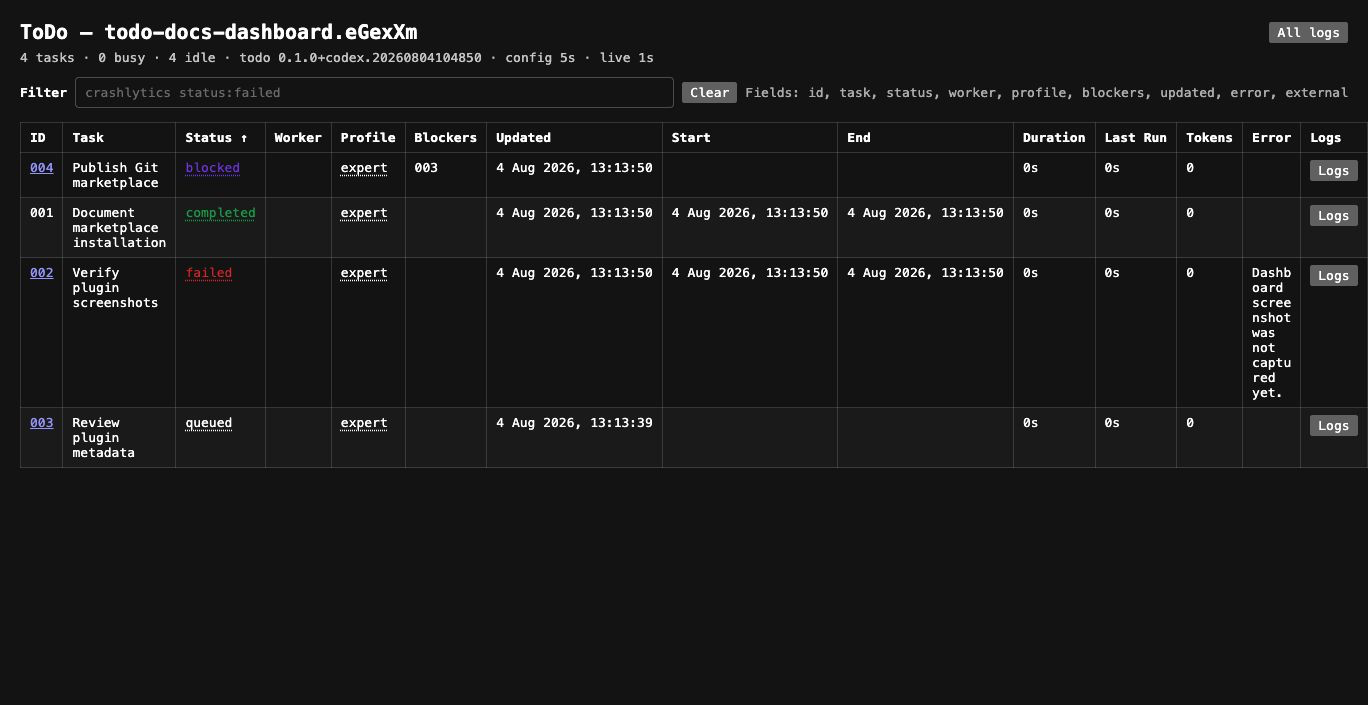
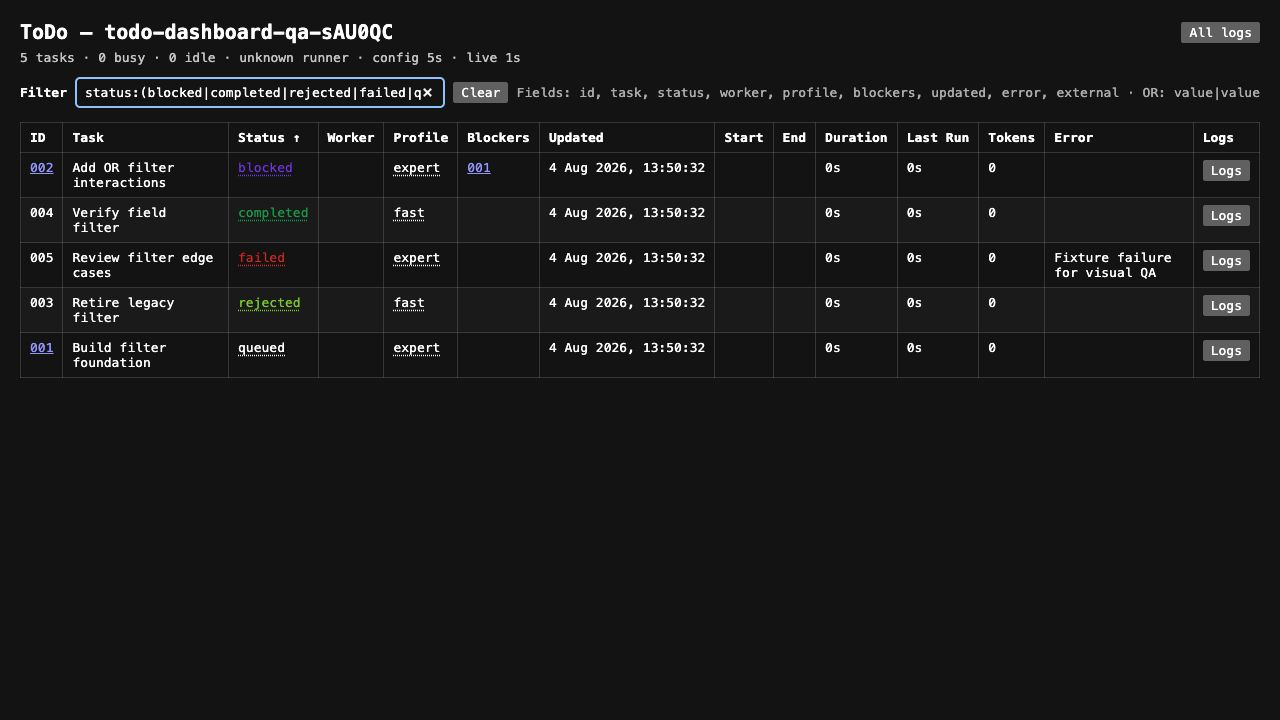
Improve ToDo dashboard filters and dependencies

diff --git a/plugins/todo/README.md b/plugins/todo/README.md
@@ -107,6 +107,12 @@ Its URL and port are ephemeral; query `$todo:dashboard` or `$todo:status` instea
 of bookmarking one. Prompts, readable transcripts, raw JSONL logs, results, and
 metrics remain in `.todo/` for audit and debugging.
 
+Dependency IDs link to their task Markdown when the referenced task is available.
+Canceled lifecycle records are labeled `rejected` in the dashboard. Field filters
+accept OR values as either `status:completed|rejected` or
+`status:(completed|rejected)`; clicking multiple status or profile values builds
+the same `|` expression.
+
 The dashboard is local operational tooling, not an account-quota display. Token
 usage appears only when Codex emits usage records for the task attempt.
 

diff --git a/plugins/todo/CHANGELOG.md b/plugins/todo/CHANGELOG.md
@@ -1,5 +1,13 @@
 # Changelog
 
+## 0.1.0+codex.20260804115237 - 2026-08-04
+
+- Linked resolvable dependency IDs to their task Markdown in the dashboard.
+- Displayed canceled tasks as lime-colored `rejected` records without changing
+  the persisted lifecycle status.
+- Added `|` alternatives and parenthesized OR values to field filters, including
+  OR composition when status or profile values are clicked.
+
 ## 0.1.0 - 2026-08-04
 
 - Initial Git-backed marketplace package.
